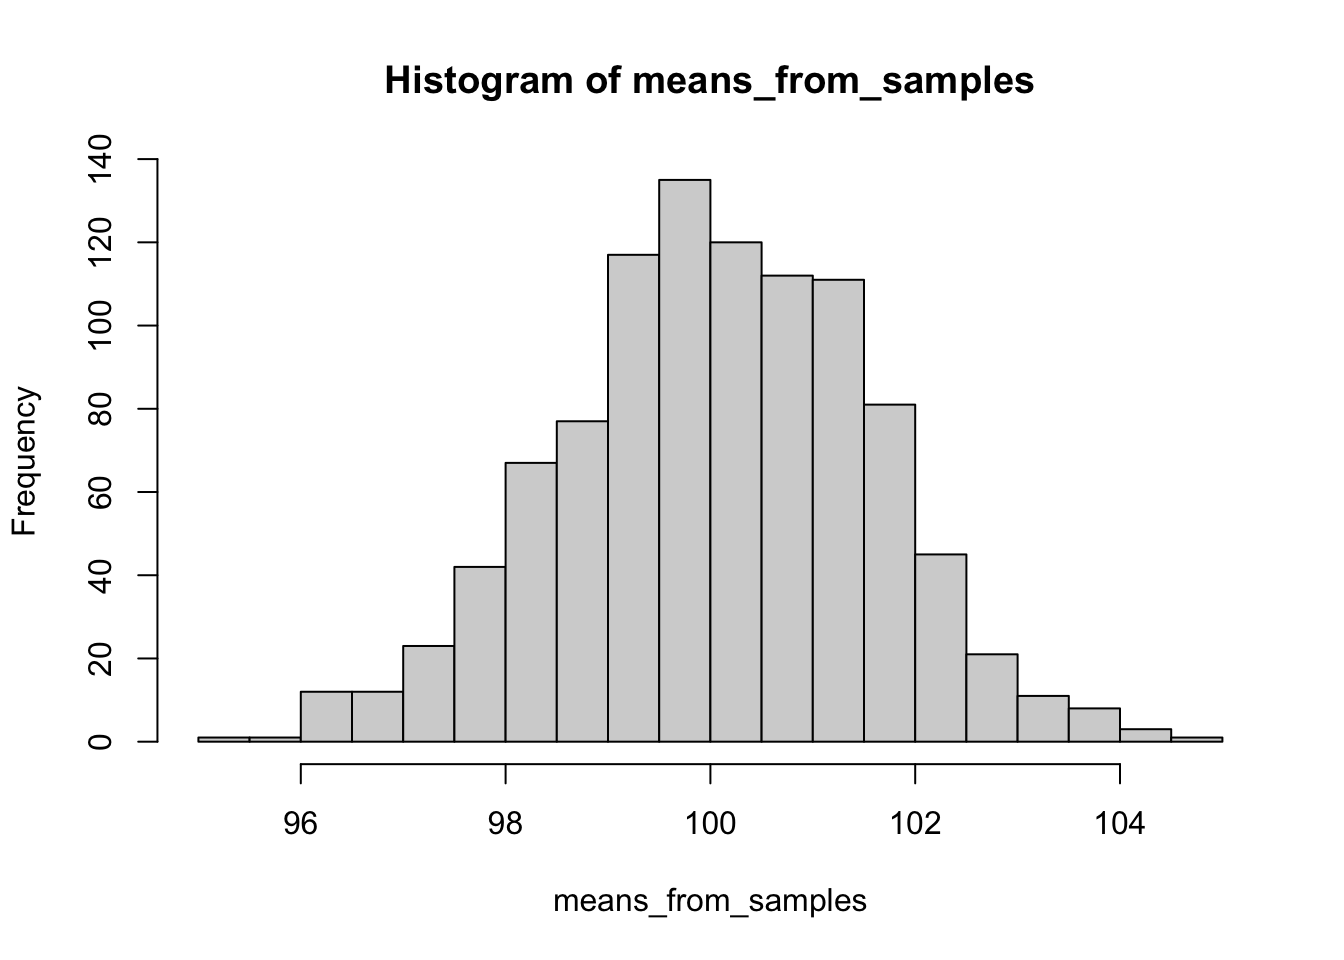
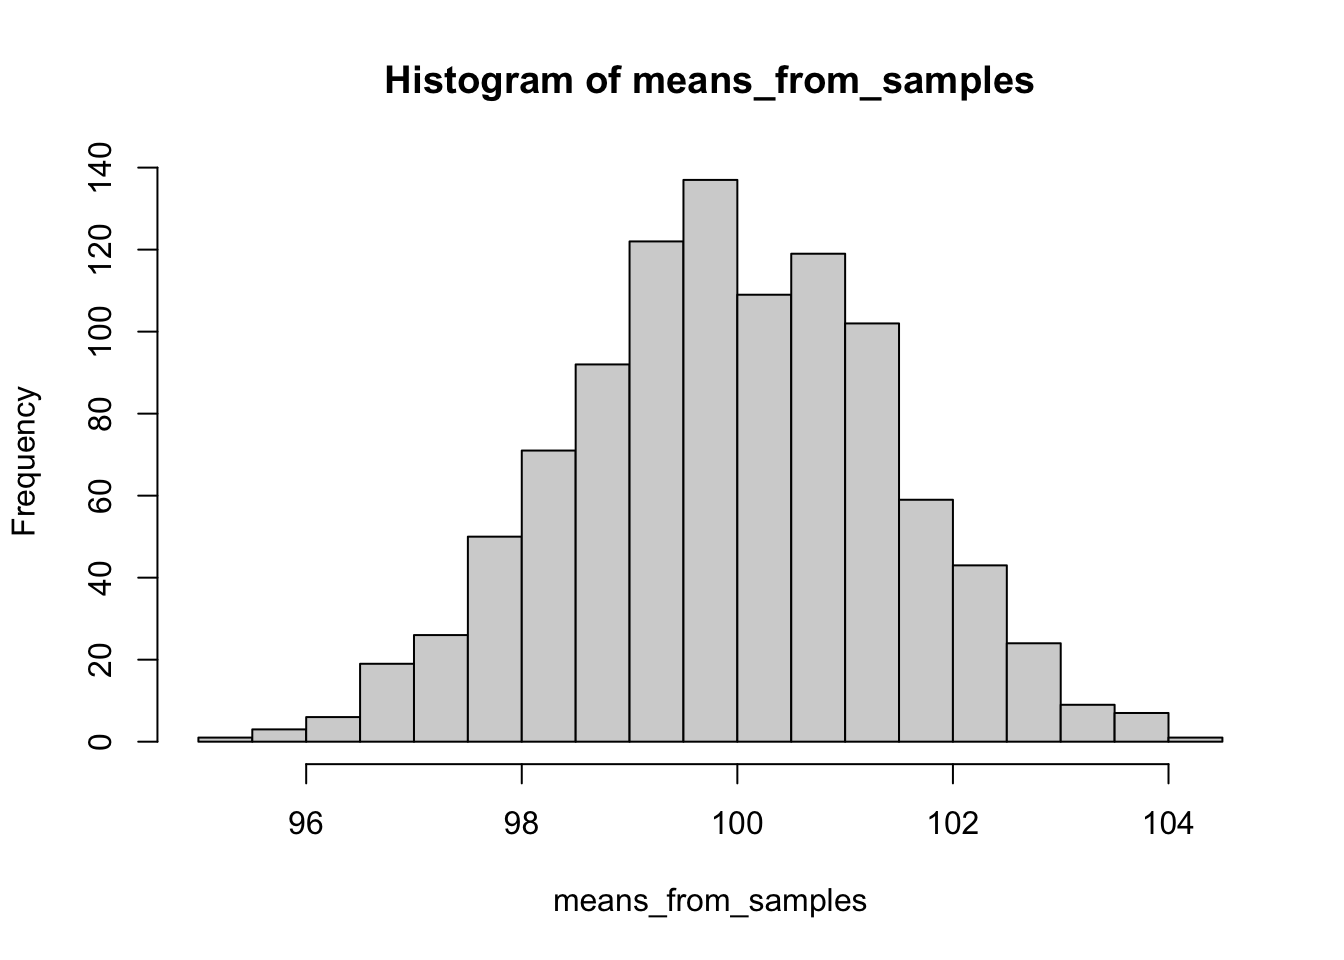
kuhshkdahkdjkldalkjak

diff --git a/docs/intervals.html b/docs/intervals.html
@@ -390,9 +390,9 @@ code span.wa { color: #60a0b0; font-weight: bold; font-style: italic; } /* Warni
 <p>Например, мы изучаем выгорание среди преподавателей, но вместо одного исследования провели сто, и в каждом исследовании посчитали выборочное среднее. Такое распредление и называется <em>распределением выборочных средних</em>, и оно будет распределено нормально. Причем чем больше выборок мы будем извлекать – тем более будет стемиться к нормальному это распределение, и тем <strong>ближе к среднему генеральной совокупности будет ближе среднее распределения выборочных средних</strong> (да, тут очень много слов “средние” и “распределения”, но постарайтесь не запутаться).</p>
 <p><img src="StatsForDA_files/figure-html/unnamed-chunk-6-1.png" width="672" /></p>
 <div class="sourceCode" id="cb1"><pre class="sourceCode r"><code class="sourceCode r"><span id="cb1-1"><a href="intervals.html#cb1-1" tabindex="-1"></a><span class="fu">mean</span>(means_from_samples)</span></code></pre></div>
-<pre><code>## [1] 100.0502</code></pre>
+<pre><code>## [1] 99.92264</code></pre>
 <div class="sourceCode" id="cb3"><pre class="sourceCode r"><code class="sourceCode r"><span id="cb3-1"><a href="intervals.html#cb3-1" tabindex="-1"></a><span class="fu">sd</span>(means_from_samples)</span></code></pre></div>
-<pre><code>## [1] 1.506849</code></pre>
+<pre><code>## [1] 1.489654</code></pre>
 <p>Визуализацию принципов работы этого важного следствия ЦПТ можно посмотреть здесь <a href="https://gallery.shinyapps.io/CLT_mean/" class="uri">https://gallery.shinyapps.io/CLT_mean/</a>. Меняя число извлеченных из ГС выборок можно посмотреть, как выборочные распределения становятся ближе к нормальному распредедению, а их среднее – к среднему генеральной совокупности.
 Эта визуализация наглядно показывает, как количество наблюдений в выборке и количество извлекаемых выборок влияет на оценку среднего ГС.
 Допустим распределение данных в ГС выглядит так</p>
